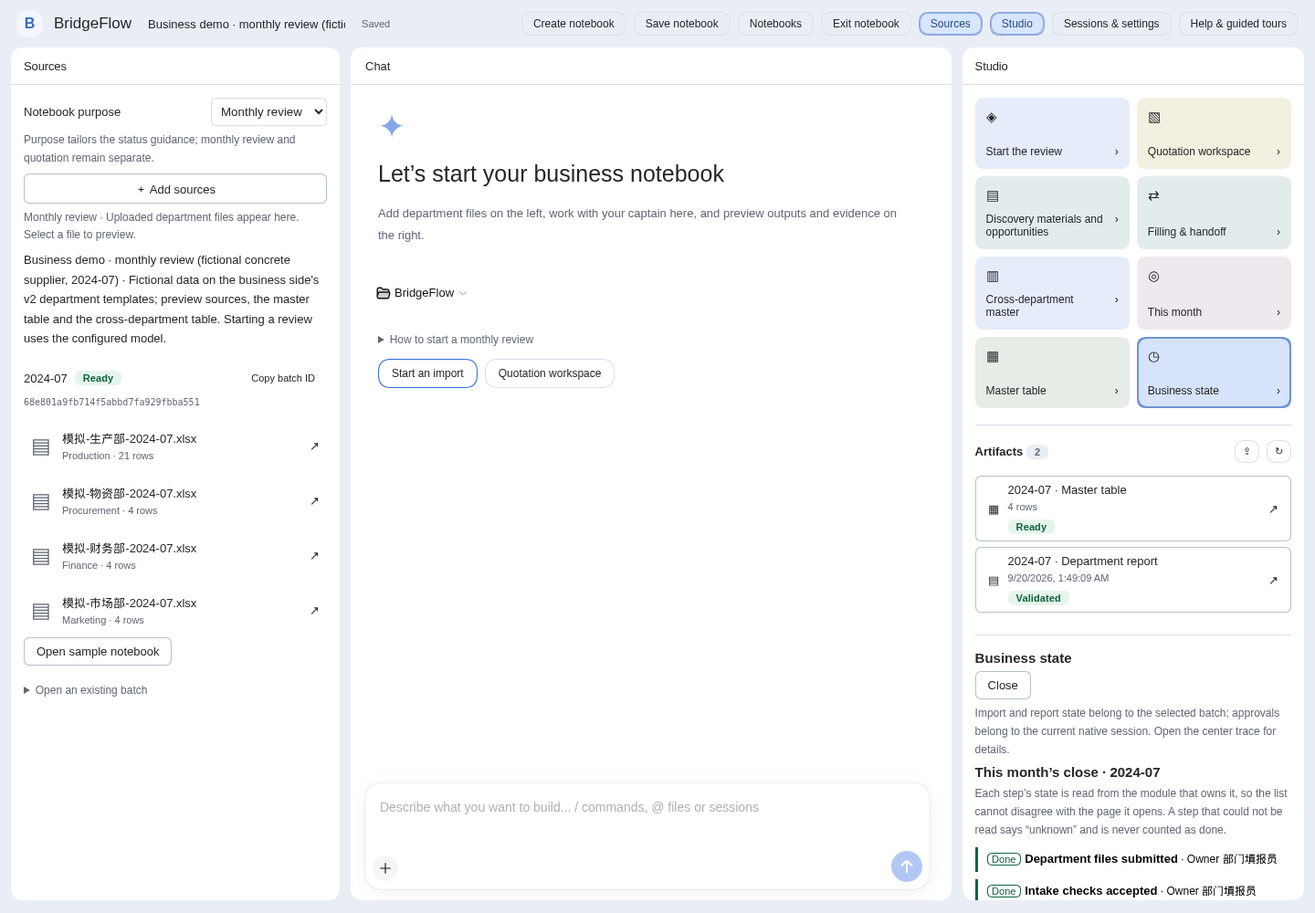
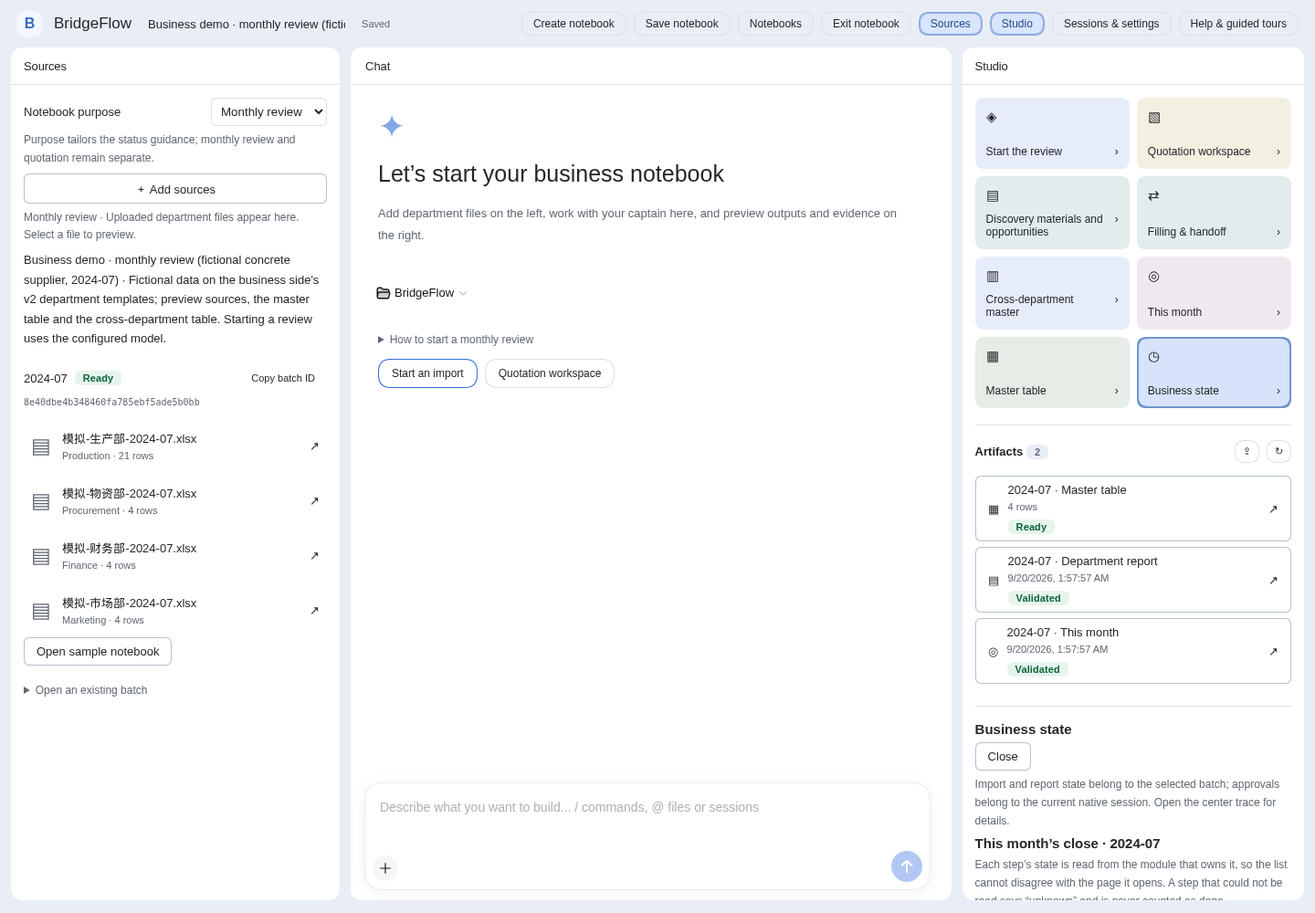
E13-UC01/UC06 收尾：数字说出它的出处，图上的点说出它有多硬 (#217)
四处缺口一次收掉：

- 关注项展开就是这个数字引用的单元格（部门 · 文件 · 行 · 列），封顶 5 条
  并给出真实总数，只给引用不给数值——一个指标常由上百个单元格求和，把
  它们全列出来既不可读，也正是「原始行绝不进上下文」要挡的东西。
- 结论页作为派生产物进产物列表，与报告同版本绑定；不另存一份结论快照，
  否则页面和存档会对同一个月给出两种说法。导出的 Word 才是便携副本。
- 图表每个数据点带依据等级：条形取该单元格的等级，趋势取该声明指标的
  等级（挂着未确认口径时就是 G3）。表格视图同列。
- 「出处缺失」成为待办收件箱的第五类来源，按字段一条，写明涉及多少单元
  格与断链原因。断链是要有人去修的，不是显示完就算了。

设计判定 D26–D27 记在 docs/requirements/13-conclusions.md。

Claude-Session: https://claude.ai/code/session_019nMh6Q3JT7ofAVvvXs2rTQ

Changed region(s): [[0.7188, 0.682, 0.9688, 0.992], [0.0312, 0.434, 0.1562, 0.465]]

diff --git a/plugins/src/client/shell.tsx b/plugins/src/client/shell.tsx
@@ -21,7 +21,7 @@ import { PanelResizers, useNativeSidebar } from './shell-layout.tsx'
 import { shellStyle } from './shell-style.ts'
 
 type Source = { id: string; filename: string; sheet: string; preview_available: boolean; total?: number; sha256?: string }
-type Artifact = { report_id: string; period: string; status: string; created_at: number }
+type Artifact = { report_id: string; period: string; status: string; created_at: number; kind?: string }
 type Preview = { filename: string; sheet: string; sha256: string; columns: string[]; rows: unknown[][]; row_numbers?: number[]; total: number; offset: number }
 const emptyWindow: SessionEventWindow = { entries: [], hasMore: false, revision: 0, change: { kind: 'replace', entries: [] } }
 const viewportSubscribe = (fn: () => void) => { window.addEventListener('resize', fn); return () => window.removeEventListener('resize', fn) }
@@ -161,7 +161,9 @@ function Shell({ ctx }: { ctx: Context }) {
         <section data-tour-id="artifacts" className="bf-artifacts" aria-label={t('artifacts')}><header><h3>{t('artifacts')} <span className="bf-badge">{artifactTotal + (summary?.master_rows ? 1 : 0)}</span></h3>{artifacts.length > 0 && <button aria-label={t('feishuUpload')} title={t('feishuUpload')} onClick={() => { setFeishuNotice(''); feishuUploader.current?.showModal() }}>⇪</button>}<button aria-label={t('refreshArtifacts')} onClick={() => setRevision(n => n + 1)}>↻</button></header>
           {feishuNotice && <p className="bf-hint" role="status">{feishuNotice}</p>}
           {!!summary?.master_rows && <button className="bf-artifact" data-kind="master" onClick={() => navigate({ batch: batchId, view: 'master' })}><span aria-hidden="true">▦</span><span><strong>{summary.period} · {t('master')}</strong><small>{summary.master_rows} {t('rows')}</small><Chip status={summary.status}/></span><span aria-hidden="true">↗</span></button>}
-          {artifacts.map(item => <button className="bf-artifact" data-kind="review" key={item.report_id} aria-pressed={selected.report === item.report_id} onClick={() => navigate({ batch: batchId, view: 'artifact', report: item.report_id })}><span aria-hidden="true">▤</span><span><strong>{item.period} · {t('review')}</strong><small>{formatDateTime(item.created_at * 1000, language)}</small><Chip status={item.status}/></span><span aria-hidden="true">↗</span></button>)}
+          {artifacts.map(item => item.kind === 'brief'
+            ? <button className="bf-artifact" data-kind="brief" key={`brief-${item.report_id}`} aria-pressed={selected.view === 'brief' && selected.report === item.report_id} onClick={() => navigate({ batch: batchId, view: 'brief', report: item.report_id })}><span aria-hidden="true">◎</span><span><strong>{item.period} · {t('monthlyBrief')}</strong><small>{formatDateTime(item.created_at * 1000, language)}</small><Chip status={item.status}/></span><span aria-hidden="true">↗</span></button>
+            : <button className="bf-artifact" data-kind="review" key={item.report_id} aria-pressed={selected.report === item.report_id} onClick={() => navigate({ batch: batchId, view: 'artifact', report: item.report_id })}><span aria-hidden="true">▤</span><span><strong>{item.period} · {t('review')}</strong><small>{formatDateTime(item.created_at * 1000, language)}</small><Chip status={item.status}/></span><span aria-hidden="true">↗</span></button>)}
           {!artifacts.length && !summary?.master_rows && <p className="bf-hint">{t('emptyArtifacts')}</p>}
           {artifactTotal > 50 && <div className="bf-actions"><button disabled={!artifactOffset} onClick={() => setArtifactOffset(Math.max(0, artifactOffset - 50))}>{t('previous')}</button><button disabled={artifactOffset + artifacts.length >= artifactTotal} onClick={() => setArtifactOffset(artifactOffset + 50)}>{t('next')}</button></div>}
         </section>

diff --git a/plugins/src/client/brief.tsx b/plugins/src/client/brief.tsx
@@ -15,7 +15,9 @@ type Change = { metric?: string; field?: string; unit?: string; current: number 
 type Totals = { field: string; current: number; base: number; absolute: number; relative: number | null; new_entities: number; discontinued: number; continuing: number }
 type Comparison = { base_kind: string; base_period: string; base_batch_id: string; status: string; reason: string; changed_fields: string[]; metrics: Change[]; totals: Totals[]; breaches: Change[] }
 type Metric = { metric: string; check_id: string; title: string; value: number; unit: string; status: string; formula: string; source_count: number; owner: string; grade: Grade; change: Change | null }
-type Attention = { check_id: string; title: string; metric: string; value: number; unit: string; threshold: number; attention_when: string; owner: string; decision_owner: string; action: string; explanation: string; grade: Grade; advice_grade: Grade }
+type Attention = { check_id: string; title: string; metric: string; value: number; unit: string; threshold: number; attention_when: string; owner: string; decision_owner: string; action: string; explanation: string; grade: Grade; advice_grade: Grade
+  sources: { department: string; filename?: string; sheet?: string; row?: number; source_row?: number; column?: string; original_column?: string }[]
+  source_count: number }
 type Brief = {
   period: string; bound: Record<string, string>; report_status: string; stale: boolean; latest_report_id: string; missing_departments: string[]
   headline: { attention: number; ok: number; open_items: number; missing_departments: number }
@@ -113,6 +115,14 @@ export function MonthlyBrief({ batchId }: { batchId: string }) {
       <p className="bf-hint">{t(a.attention_when === 'above' ? 'briefAbove' : 'briefBelow')} {number(a.threshold, a.unit)} · {t('briefOwner')} {a.decision_owner}</p>
       <p>{t('briefAction')}：{a.action} <GradeMark grade={a.advice_grade} /></p>
       <p className="bf-hint">{a.explanation}</p>
+      {a.sources.length > 0 && <details className="bf-brief-sources"><summary>{t('briefSources')}（{a.source_count}）</summary>
+        <ul>{a.sources.map((source, i) => <li key={i}>
+          <button onClick={() => navigate({ batch: batchId, view: 'source', source: source.department })}>
+            {t(source.department)}</button>
+          <span className="bf-mono"> {source.filename}{source.sheet ? ` · ${source.sheet}` : ''} · {t('sourceRow')} {source.source_row ?? source.row} · {source.original_column ?? source.column}</span>
+        </li>)}</ul>
+        {a.source_count > a.sources.length && <p className="bf-hint">{t('briefSourcesMore')} {a.source_count}</p>}
+      </details>}
     </li>)}</ol>
 
     <h4>{t('periodComparison')}</h4>

diff --git a/plugins/src/client/charts.tsx b/plugins/src/client/charts.tsx
@@ -9,9 +9,9 @@ import { api, describeError, navigate, useUI } from './ui.ts'
  * breaks rather than passing through a month nobody reported. Status never rests on colour
  * alone — a breached point carries a mark and the table says so in words.
  */
-type Point = { label: string; value: number | null; batch_id: string; period: string; key: string[]; part: string; breach: boolean }
+type Point = { label: string; value: number | null; batch_id: string; period: string; key: string[]; part: string; breach: boolean; grade: string }
 type Chart = { id: string; kind: string; status: string; subject: string; unit: string; points: Point[]
-  threshold: number | null; threshold_label: string; reason: string }
+  threshold: number | null; threshold_label: string; reason: string; grade: string }
 
 const WIDTH = 520, HEIGHT = 160, PAD = 28
 
@@ -96,7 +96,8 @@ export function MetricCharts({ batchId }: { batchId: string }) {
     <h3>{t('metricCharts')}</h3>
     {charts.charts.map(chart => <article key={chart.id} className="bf-chart-card">
       <h4>{t(`chart_${chart.id}`) === `chart_${chart.id}` ? chart.subject : t(`chart_${chart.id}`)}
-        {chart.unit && <span className="bf-hint"> · {chart.unit}</span>}</h4>
+        {chart.unit && <span className="bf-hint"> · {chart.unit}</span>}
+        {chart.grade && <span className="bf-grade" data-grade={chart.grade}>{chart.grade}</span>}</h4>
       {chart.status === 'ready'
         ? chart.kind === 'trend' ? <Trend chart={chart} onPoint={open} /> : <Bars chart={chart} onPoint={open} />
         : <p className="bf-hint">{chart.status === 'needs_more_periods' ? t('chartNeedsPeriods') : t('chartUnavailable')}{chart.reason ? ` — ${chart.reason}` : ''}</p>}
@@ -106,7 +107,8 @@ export function MetricCharts({ batchId }: { batchId: string }) {
         <th scope="col">{t('chartPoint')}</th><th scope="col">{t('value')}</th><th scope="col">{t('chartState')}</th></tr></thead>
         <tbody>{chart.points.map(point => <tr key={point.label}>
           <td>{point.label}</td><td data-numeric="true">{format(point.value, chart.unit)}</td>
-          <td>{point.value === null ? t('chartGapCell') : point.breach ? t('chartBreach') : t('chartWithin')}</td>
+          <td>{point.value === null ? t('chartGapCell') : point.breach ? t('chartBreach') : t('chartWithin')}
+            {point.grade && <span className="bf-grade" data-grade={point.grade}>{point.grade}</span>}</td>
         </tr>)}</tbody></table>}
     </article>)}
   </section>

diff --git a/plugins/src/client/ui.ts b/plugins/src/client/ui.ts
@@ -104,6 +104,8 @@ const labels = {
   monthly_checklist: ['月度对账进度', 'Monthly close checklist'], monthly_inbox: ['待确认事项', 'Open items'],
   openItems: ['待确认事项', 'Open items'],
   metricCharts: ['指标图', 'Metric charts'],
+  briefSources: ['这个数字的出处', 'Where this figure came from'],
+  briefSourcesMore: ['共引用来源单元格', 'Source cells cited in total:'],
   exportReport: ['导出月度报告（Word）', 'Export the monthly report (Word)'],
   templateDownload: ['下载本月模板', 'Download this month\u2019s template'],
   templateDownloadHelp: ['按批准的模板版本生成工作簿；声明为沿用的列会预填上期数值，单元格带「预填自某月，请核对」批注，填写说明页写明字段含义与本次是否预填。',

diff --git a/backend/src/bridgeflow/conclusions/charts.py b/backend/src/bridgeflow/conclusions/charts.py
@@ -49,6 +49,9 @@ class Point(BaseModel):
     #: For a waterfall: whether the part adds to or subtracts from the total.
     part: str = ""
     breach: bool = False
+    #: The evidence grade of this point's own number (E13-UC06), where it has one.
+    grade: str = ""
+
 
 
 class Chart(BaseModel):
@@ -60,6 +63,10 @@ class Chart(BaseModel):
     subject: str = ""
     unit: str = ""
     points: list[Point] = Field(default_factory=list)
+    #: The grade of what this chart draws, when it is the same for every point (a declared
+    #: metric is only as strong as the conventions it rests on).
+    grade: str = ""
+
     threshold: float | None = None
     threshold_label: str = ""
     reason: str = ""
@@ -81,15 +88,27 @@ def _threshold(dictionary: dict | None, check_id: str) -> tuple[float | None, st
     return None, ""
 
 
-def trend(spec: ChartSpec, dictionary: dict | None, series: list[dict]) -> Chart:
+def metric_grade(dictionary: dict | None, metric: str, confirmed: set[str] | None = None) -> str:
+    """A declared metric is a formula (G2) unless it rests on a convention nobody confirmed (G3)."""
+    conventions = ((dictionary or {}).get("business_review") or {}).get("brief", {}).get("conventions", {}).get(metric, [])
+    unconfirmed = [key for key in conventions if key not in (confirmed or set())]
+    return "G3" if unconfirmed else "G2"
+
+
+def trend(spec: ChartSpec, dictionary: dict | None, series: list[dict],
+          confirmed: set[str] | None = None) -> Chart:
     """`series` is one entry per period, newest last: {period, batch_id, value, unit}."""
     unit = next((str(item.get("unit", "")) for item in series if item.get("value") is not None), "")
     points = [Point(label=str(item["period"]), period=str(item["period"]), batch_id=str(item.get("batch_id", "")),
                     value=None if item.get("value") is None else float(item["value"])) for item in series]
     measured = [p for p in points if p.value is not None]
     threshold, when = _threshold(dictionary, spec.threshold_from_check or spec.metric)
+    grade = metric_grade(dictionary, spec.metric, confirmed)
     chart = Chart(id=spec.id, kind="trend", subject=spec.metric, unit=unit, points=points,
-                  threshold=threshold, threshold_label=when)
+                  threshold=threshold, threshold_label=when, grade=grade)
+    for point in points:
+        if point.value is not None:
+            point.grade = grade
     if len(measured) < 2:
         chart.status = "needs_more_periods"
         chart.reason = "A trend needs at least two periods with a batch; a single point is not a line"
@@ -122,7 +141,7 @@ def variance(spec: ChartSpec, comparison: Any, *, batch_id: str = "", period: st
 
 
 def entity_bars(spec: ChartSpec, master: Any, breaches: list[Any] | None = None,
-                axis: list[int] | None = None) -> Chart:
+                axis: list[int] | None = None, grades: list[dict] | None = None) -> Chart:
     """This period's value per entity, largest first. Only declared fields; no ranking invented.
 
     `axis` is the entity part of the master key (E13-UC02 D6): a breach is reported against the
@@ -135,12 +154,13 @@ def entity_bars(spec: ChartSpec, master: Any, breaches: list[Any] | None = None,
         return chart
     breached = {tuple(b.key) for b in (breaches or []) if getattr(b, "field", "") == spec.field}
     rows = []
-    for row in master.rows:
+    for index, row in enumerate(master.rows):
         value = row.values.get(spec.field)
         if isinstance(value, int | float):
             entity = tuple(row.key[i] for i in axis if i < len(row.key)) if axis else tuple(row.key)
+            cell = ((grades or [])[index] if grades and index < len(grades) else {}).get(spec.field) or {}
             rows.append(Point(label=" · ".join(row.key[:2]), value=float(value), key=list(row.key),
-                              breach=entity in breached))
+                              breach=entity in breached, grade=str(cell.get("grade") or "")))
     rows.sort(key=lambda p: abs(p.value or 0), reverse=True)
     chart.points = rows[:spec.top]
     if not rows:

diff --git a/backend/tests/test_inbox.py b/backend/tests/test_inbox.py
@@ -1,5 +1,8 @@
 """The open-item inbox (E14-UC05): one list of what is still waiting, and on whom."""
+import json
+
 import pytest
+from conftest import receipt
 from fastapi.testclient import TestClient
 from test_conclusions import finalize
 from test_resupply import LABELS, XLSX, original
@@ -111,3 +114,30 @@ def test_the_captain_sees_counts_by_kind_and_department(client):
     result = client.post("/tools/monthly-inbox", json={"period": "2024-07"}).json()
     assert result["by_kind"] and result["by_department"]
     assert "decides nothing" in result["next_step"]
+
+
+def test_a_broken_provenance_chain_reaches_the_inbox(client):
+    """E13-UC06 AC-3: a cell nobody can trace becomes somebody's item (round 11)."""
+    batch = client.post("/batches/demo").json()["batch_id"]
+    items = {i["subject"]: i for i in inbox(client)["items"] if i["kind"] == "missing_provenance"}
+    master = client.get(f"/integration/batches/{batch}").json()
+    broken = {field for row in master["grades"] for field, result in row.items() if result["grade"] is None}
+    # The demo case's disagreement leaves those cells empty and untraceable; every such field
+    # is somebody's item, once per field rather than once per cell.
+    assert set(items) == broken and broken
+    for field, item in items.items():
+        cells = sum(1 for row in master["grades"] if row[field]["grade"] is None)
+        assert item["detail"].startswith(f"{cells} cell(s)") and item["next_view"] == "integration"
+
+
+def test_a_confirmed_convention_is_not_reported_as_a_gap(client):
+    batch = client.post("/batches/demo").json()["batch_id"]
+    before = len([i for i in inbox(client)["items"] if i["kind"] == "missing_provenance"])
+    # Confirming changes a grade from G3 to G2; it never turns a missing chain into a present one.
+    payload = {"batch_id": batch, "convention": "增值税税率", "action": "confirm",
+               "source": "财务部确认函", "confirmed_by": "captain"}
+    raw = json.dumps(payload, separators=(",", ":"), ensure_ascii=False).encode()
+    assert client.post("/tools/convention-decide", content=raw,
+                       headers={"content-type": "application/json",
+                                "x-bridgeflow-approval": receipt(raw)}).status_code == 200
+    assert len([i for i in inbox(client)["items"] if i["kind"] == "missing_provenance"]) == before

diff --git a/backend/src/bridgeflow/monthly/inbox.py b/backend/src/bridgeflow/monthly/inbox.py
@@ -55,6 +55,8 @@ class Context(BaseModel):
     batch: Any = None
     master: Any = None
     has_report: bool = False
+    #: Conventions the business side has confirmed, so a confirmed one is not reported as a gap.
+    confirmed: list[str] = Field(default_factory=list)
     #: Earlier batches of this period that carry a saved review. When the batch in force has
     #: none of its own, that review was left behind by a correction and the month is waiting
     #: for a new one.
@@ -120,7 +122,33 @@ def _stale_report(ctx: Context) -> list[OpenItem]:
                      next_view="state")]
 
 
+def _missing_provenance(ctx: Context) -> list[OpenItem]:
+    """Master cells whose evidence chain is broken (E13-UC06 AC-3).
+
+    One item per field rather than per cell: at 200k rows "this column has no traceable
+    source" is the thing somebody acts on, and the count says how widespread it is.
+    """
+    if ctx.master is None:
+        return []
+    from bridgeflow.conclusions.grades import grade_master
+
+    graded, _summary = grade_master([row.provenance for row in ctx.master.rows], frozenset(ctx.confirmed))
+    fields: dict[str, int] = {}
+    reasons: dict[str, str] = {}
+    for row in graded:
+        for field_name, result in row.items():
+            if result.get("grade") is None:
+                fields[field_name] = fields.get(field_name, 0) + 1
+                reasons.setdefault(field_name, "; ".join(result.get("missing", [])[:2]))
+    departments = sorted({t.department for t in ctx.batch.clean_tables}) if ctx.batch is not None else []
+    return [OpenItem(id=f"provenance:{name}", kind="missing_provenance", source="grades",
+                     batch_id=ctx.batch_id, period=ctx.period, departments=departments, subject=name,
+                     detail=f"{count} cell(s): {reasons.get(name, '')}", next_view="integration")
+            for name, count in sorted(fields.items())]
+
+
 SOURCES: dict[str, OpenItemSource] = {
+    "grades": _missing_provenance,
     "integration": _master_issues,
     "quarantine": _quarantined_rows,
     "column_matches": _column_questions,

diff --git a/backend/tests/test_charts.py b/backend/tests/test_charts.py
@@ -98,3 +98,33 @@ def test_a_dictionary_without_chart_declarations_shows_tables_instead(client, mo
     _write(batch_path(batch), snapshot.model_dump(mode="json"))
     result = client.get(f"/conclusions/batches/{batch}/charts").json()
     assert result["charts"] == [] and "table" in result["refusal"]
+
+
+def test_chart_points_carry_the_evidence_grade_of_what_they_draw(client):
+    """E13-UC06 in charts: a drawn number says how strong it is (round 11)."""
+    import_month(client, JUNE, "2024-06")
+    batch = client.post("/batches/demo").json()["batch_id"]
+    charts = charts_of(client, batch)
+    trend = charts["sign_rate_trend"]
+    assert trend["grade"] == "G2"
+    assert {p["grade"] for p in trend["points"] if p["value"] is not None} == {"G2"}
+    assert all(p["grade"] == "" for p in trend["points"] if p["value"] is None)
+    bars = charts["project_output_bars"]
+    master = client.get(f"/integration/batches/{batch}").json()
+    index = {tuple(row["key"]): row for row in master["rows"]}
+    for point in bars["points"]:
+        row = index[tuple(point["key"])]
+        expected = master["grades"][master["rows"].index(row)]["生产_实际量"]["grade"]
+        assert point["grade"] == expected
+
+
+def test_a_metric_resting_on_an_unconfirmed_convention_is_drawn_as_g3(client):
+    import_month(client, JUNE, "2024-06")
+    batch = client.post("/batches/demo").json()["batch_id"]
+    from bridgeflow.api.batches import batch_path, load_batch
+    from bridgeflow.store import _write
+    snapshot = load_batch(batch)
+    snapshot.dictionary_snapshot["business_review"]["brief"]["conventions"]["sign_rate"] = ["增值税税率"]
+    _write(batch_path(batch), snapshot.model_dump(mode="json"))
+    trend = charts_of(client, batch)["sign_rate_trend"]
+    assert trend["grade"] == "G3"

diff --git a/backend/src/bridgeflow/conclusions/brief.py b/backend/src/bridgeflow/conclusions/brief.py
@@ -65,6 +65,10 @@ class AttentionItem(BaseModel):
     explanation: str
     grade: dict[str, Any]
     advice_grade: dict[str, Any]
+    #: Where this figure came from: department, file, row and column, capped, with the true
+    #: total beside it. References, never values — the browser opens the source to see those.
+    sources: list[dict[str, Any]] = Field(default_factory=list)
+    source_count: int = 0
 
 
 class ConclusionBrief(BaseModel):
@@ -165,7 +169,13 @@ class BriefBuilder:
                 unit=check["unit"], threshold=check["threshold"], attention_when=check["attention_when"],
                 owner=check["role"], decision_owner=check["decision_owner"], action=check["action"],
                 explanation=check["explanation"], grade=self._metric_grade(check),
-                advice_grade=self._count(self._grader.grade(advice(check, conventions, self.confirmed_conventions)).as_dict())))
+                advice_grade=self._count(self._grader.grade(advice(check, conventions, self.confirmed_conventions)).as_dict()),
+                # Capped, with the real total beside it: a figure over 200k rows cites its
+                # sources by reference and count, never by shipping every cell back.
+                sources=[{k: v for k, v in source.items() if k in
+                          ("department", "filename", "sheet", "row", "source_row", "column", "original_column")}
+                         for source in check.get("sources", [])[:5]],
+                source_count=int(check.get("source_count", 0))))
         return items
 
     def build(self) -> ConclusionBrief:

diff --git a/backend/src/bridgeflow/api/conclusions.py b/backend/src/bridgeflow/api/conclusions.py
@@ -111,15 +111,21 @@ async def metric_charts(batch_id: str, user: Annotated[UserIdentity | None, Depe
                 master_for=lambda other: _master_or_none(other, user), visible=_visibility(user))
         except HTTPException:
             comparison = None
+    confirmed = conventions.confirmed(batch.integration_snapshot or {})
+    cell_grades = []
+    if master is not None and any(spec.kind == "entity_bars" for spec in specs):
+        from bridgeflow.conclusions.grades import grade_master
+        cell_grades, _summary = grade_master([row.provenance for row in master.rows], frozenset(confirmed))
     built = []
     for spec in specs:
         if spec.kind == "trend":
-            built.append(charts.trend(spec, dictionary, _metric_series(spec, batch, user)))
+            built.append(charts.trend(spec, dictionary, _metric_series(spec, batch, user), confirmed))
         elif spec.kind == "variance":
             built.append(charts.variance(spec, comparison, batch_id=batch_id, period=batch.period))
         else:
             built.append(charts.entity_bars(spec, master, comparison.breaches if comparison else [],
-                                            comparison_module.entity_axis(batch.integration_snapshot)))
+                                            comparison_module.entity_axis(batch.integration_snapshot),
+                                            cell_grades))
     return {"batch_id": batch_id, "period": batch.period,
             "charts": [chart.model_dump(mode="json") for chart in built]}
 

diff --git a/backend/tests/test_conclusions.py b/backend/tests/test_conclusions.py
@@ -137,3 +137,26 @@ def test_no_business_name_is_written_into_the_conclusions_code():
         code = ast.unparse(tree)
         for name in names:
             assert name not in code, (path.name, name)
+
+
+def test_an_attention_item_cites_where_its_figure_came_from(client, batch):
+    """E13-UC01: a reader can go from the item to the cells behind it, by reference (round 11)."""
+    finalize(client, batch)
+    brief = client.get(f"/conclusions/batches/{batch}").json()
+    item = brief["attention"][0]
+    assert item["source_count"] > 0 and 0 < len(item["sources"]) <= 5
+    first = item["sources"][0]
+    assert first["department"] in {"production", "procurement", "finance", "marketing"}
+    assert first.get("filename") and (first.get("row") is not None or first.get("source_row") is not None)
+    # References only: no cell value travels with the citation.
+    assert "value" not in first
+
+
+def test_the_brief_is_listed_as_a_derived_artifact_of_its_report(client, batch):
+    """E13-UC01: management opens it from the artifacts list; it is not a second copy (round 11)."""
+    report = finalize(client, batch)
+    artifacts = client.get(f"/batches/{batch}/artifacts").json()["artifacts"]
+    kinds = {a["kind"] for a in artifacts if a["report_id"] == report["report_id"]}
+    assert kinds == {"review", "brief"}
+    brief = next(a for a in artifacts if a["kind"] == "brief")
+    assert brief["report_id"] == report["report_id"] and brief["period"] == "2024-07"

diff --git a/backend/src/bridgeflow/api/checklist.py b/backend/src/bridgeflow/api/checklist.py
@@ -17,7 +17,7 @@ from fastapi import APIRouter, Depends, HTTPException, Query
 from bridgeflow import integration as integration_module
 from bridgeflow.api.batches import _integration_spec, _visible, load_batch
 from bridgeflow.conclusions import comparison as comparison_module
-from bridgeflow.conclusions import periods
+from bridgeflow.conclusions import conventions, periods
 from bridgeflow.identity import UserIdentity, require_user
 from bridgeflow.monthly import checklist as checklist_module
 from bridgeflow.monthly import inbox as inbox_module
@@ -103,6 +103,8 @@ def _inbox_context(period: str, user: UserIdentity | None) -> inbox_module.Conte
     ctx, _dictionary, _declaration = _context(period, user)
     return inbox_module.Context(batch_id=ctx.batch_id, period=period, batch=ctx.batch, master=ctx.master,
                                 has_report=ctx.report is not None,
+                                confirmed=sorted(conventions.confirmed(
+                                    ctx.batch.integration_snapshot or {}) if ctx.batch is not None else []),
                                 earlier_reported=_reported_earlier(period, ctx.batch_id, user))
 
 
